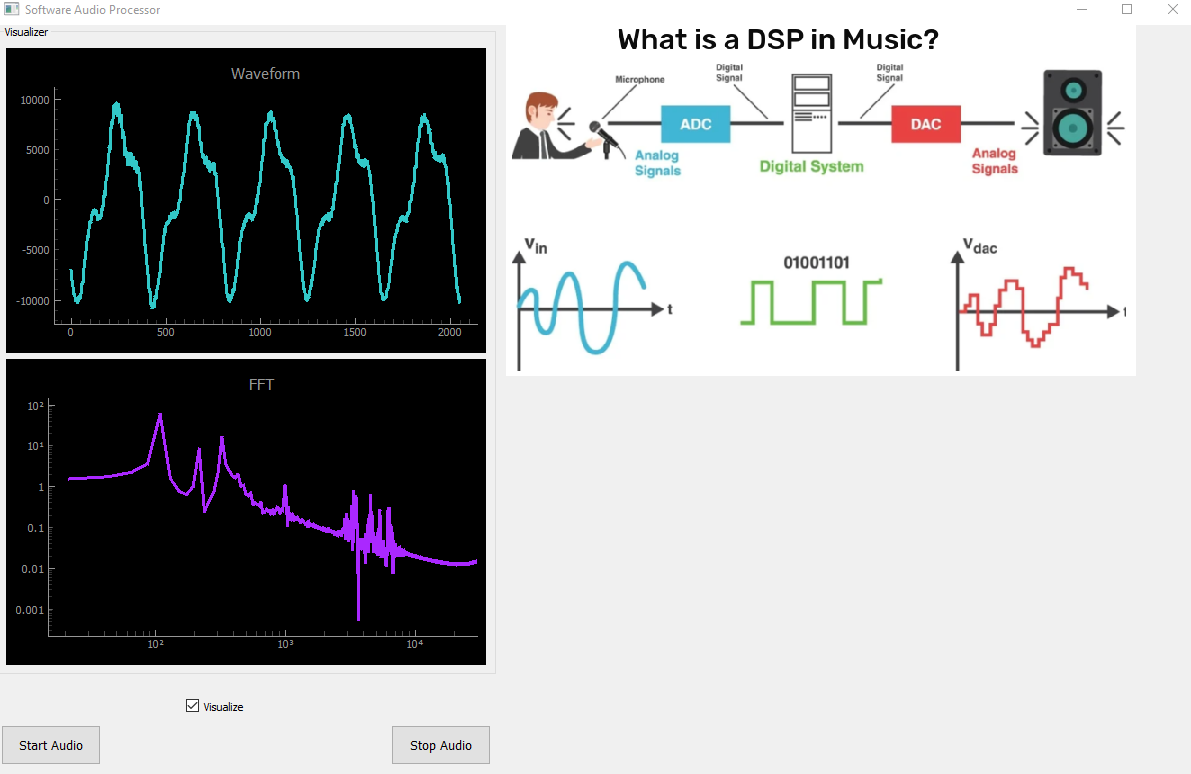
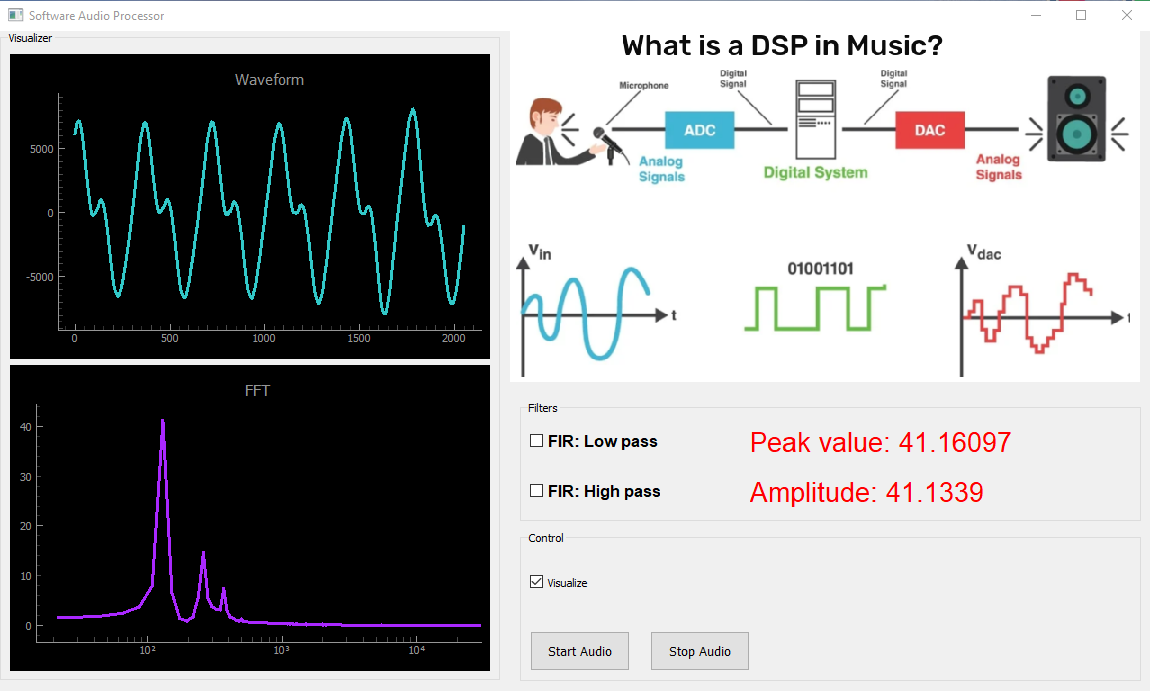
Updated visualization

diff --git a/SW_Audio_Processor/testfir.py b/SW_Audio_Processor/testfir.py
@@ -30,11 +30,11 @@ def run_FIR(data, coeff):
 #x = np.linspace(0, 10*np.pi, 100)
 #y = np.sin(x)+np.sin(3*x)+np.sin(15*x)+np.sin(-5*x)
 #w = np.sin(x)+np.sin(3*x)
-x = [100, 200, 400, 800, 1600, 2000, 2500, 3000, 3200, 3500, 4000, 4500, 5000, 5500, 6000, 6400, 12800]
-y = [1, 1, 0.991, 0.98, 0.9823, 1, 0.8497, 0.7923, 0.7647, 0.7196, 0.6524, 0.5806, 0.5034, 0.4298, 0.3548, 0.2986, 0.0225]
+x = [100, 200, 400, 800, 1600, 2000, 2500, 3000, 3200, 3500, 4000, 4500, 5000, 5500, 6000, 6400, 8000, 12800]
+y = [1, 1, 0.991, 0.98, 0.9823, 1, 0.8497, 0.7923, 0.7647, 0.7196, 0.6524, 0.5806, 0.5034, 0.4298, 0.3548, 0.2986, 0.1176, 0.0225]
 
-x_2 = [100, 200, 400, 800, 1600, 2000, 2500, 3000, 3200, 3500, 4000, 4500, 4750, 5000, 5250, 5500, 6000, 6400, 12800]
-y_2 = [0.048, 0.1037, 0.2079, 0.42, 0.812, 0.9868, 1.183, 1.3538, 1.4034, 1.4811, 1.5674, 1.6258, 1.6293, 1.3793, 1.6438, 1.6316, 1.5887, 1.5347, 0.6126]
+x_2 = [100, 200, 400, 800, 1600, 2000, 2500, 3000, 3200, 3500, 4000, 4500, 4750, 5250, 5500, 6000, 6400, 8000, 10000, 12800]
+y_2 = [0.048, 0.1037, 0.2079, 0.42, 0.812, 0.9868, 1.183, 1.3538, 1.4034, 1.4811, 1.5674, 1.6258, 1.6293, 1.6438, 1.6316, 1.5887, 1.5347, 1.2359, 0.8462, 0.6126]
 #coeff= np.array([0,2,4,6,8,6,4,2,0,0])
 
 #z = run_FIR(y,coeff)
@@ -42,13 +42,13 @@ y_2 = [0.048, 0.1037, 0.2079, 0.42, 0.812, 0.9868, 1.183, 1.3538, 1.4034, 1.4811
 plt.figure()
 plt.subplot(1,2,1)
 plt.title("Low-pass filter")
-plt.plot(x, np.log10(y), color='b')
+plt.plot(x, (np.log10(y)) * 20, 'bo-')
 plt.ylabel("Gain, dB")
 plt.xlabel("Frequency, Hz")
 plt.grid()
 plt.subplot(1,2,2)
 plt.title("High-pass filter")
-plt.plot(x_2, np.log10(y_2)-0.2, color='r')
+plt.plot(x_2, (np.log10(y_2)-0.2)*20, 'ro-')
 plt.grid()
 plt.xlabel("Frequency, Hz")
 plt.show()

diff --git a/SW_Audio_Processor/Audio_Processor.py b/SW_Audio_Processor/Audio_Processor.py
@@ -124,11 +124,11 @@ class AudioVisualizer(QMainWindow):
                 sp_data = fft(audio_data_np)
                 sp_data = np.abs(sp_data[0:int(self.FRAME)]
                                 ) * 2 / (128 * self.FRAME)
-                peak_value = np.max(sp_data)
-                min_value = np.min(sp_data)
+                peak_value = np.round(np.max(sp_data), decimals=5)
+                min_value = np.round(np.min(sp_data), decimals=5)
                 self.curveFFT.setData(self.f, sp_data)
-                self.centralWidget().Amplitude.setText(str(peak_value-min_value))
-                self.centralWidget().PeakAmp.setText(str(peak_value))
+                self.centralWidget().Amplitude.setText("Amplitude: " + str(peak_value-min_value))
+                self.centralWidget().PeakAmp.setText("Peak value: " + str(peak_value))
                 self.centralWidget().repaint()
         except queue.Empty:
             pass  # No data to visualize at the moment
